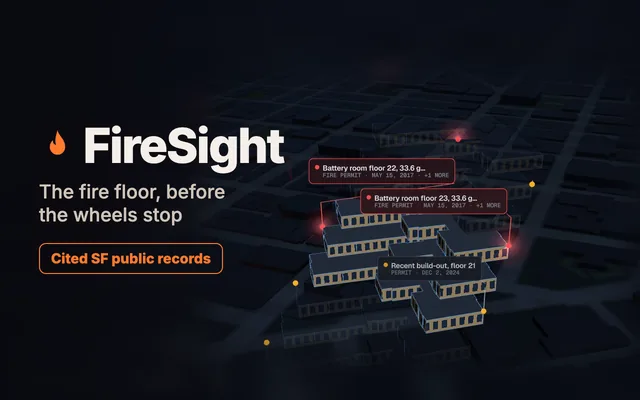
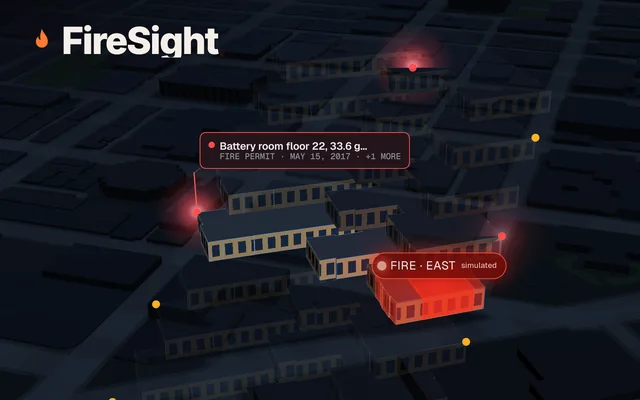
FireSight: 140 New Montgomery fire-floor shot from the live app

diff --git a/src/data/content.js b/src/data/content.js
@@ -254,7 +254,7 @@ export const hero = {
         badgeKind: 'win',
         image: {
           src: '/builds/ring/firesight.webp',
-          alt: 'FireSight logo, "The fire floor, before the wheels stop", beside a San Francisco tower exploded floor by floor on the city map, with battery rooms on floors 22 and 23 pinned from fire permits',
+          alt: 'FireSight: 140 New Montgomery St exploded floor by floor on the San Francisco city map, a simulated fire on floor 22 glowing red, and the battery room on that floor pinned from a fire permit',
         },
       },
     ],
@@ -591,7 +591,7 @@ export const builds = {
       stack: 'React · three.js · React Three Fiber · Hono · Zod · Claude · ElevenLabs · MCP · DataSF',
       media: {
         image: '/builds/firesight.webp',
-        alt: 'FireSight logo, "The fire floor, before the wheels stop" and "Cited SF public records", beside 140 New Montgomery St exploded floor by floor on the San Francisco city map, with battery rooms on floors 22 and 23 and a recent build-out on floor 21 pinned from city permits',
+        alt: 'FireSight demo: 140 New Montgomery St exploded floor by floor on the San Francisco city map, a simulated fire on floor 22 glowing red, the battery room on that floor pinned from a 2017 fire permit, and nearby hydrants marked',
       },
       links: [
         { label: 'Live demo', href: 'https://firesight-ten.vercel.app' },
